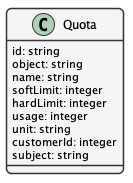
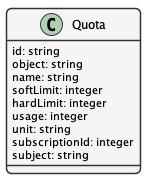
Re-add the Subscription model
A Subscription is used to link Products with Customers, essentially as 
an instance of a Product.  Quotas for a Product get associated with the 
Subscription and to the Subject of the Customer or shared group related 
to the Customer.
Fix cardinality of the overview diagram, add the Feature model, and 
update the explanatory text throughout.
Update the Quotas text to describe how quota Subjects are associated 
with create and update calls on participating Member Nodes.

Changed region(s): [[0.0301, 0.0273, 0.9624, 0.9563], [0.2406, 0.0546, 0.4211, 0.2186], [0.4511, 0.1093, 0.7218, 0.1639]]

diff --git a/membership-plan-management.rst b/membership-plan-management.rst
@@ -7,13 +7,14 @@ Membership Plan Management
 Overview
 --------
 
-To support ongoing operations, DataONE offers paid services for memberships alongside free services. This document outlines the design and implementation details needed to offer and manage these services. It describes the ``Products``, ``Customers``, ``Orders``, ``Invoices``, ``Charges``, and ``Quotas`` that DataONE needs to track. This documents:
+To support ongoing operations, DataONE offers paid services for memberships alongside free services. This document outlines the design and implementation details needed to offer and manage these services. It describes the ``Products``, ``Customers``, ``Subscriptions``, ``Quotas``, ``Orders``, ``Invoices``, and ``Charges`` and that DataONE needs to track. This documents:
 
 - What service ``Products`` are available for purchase
 - What ``Products`` a ``Customer`` purchased in an ``Order``
+- What ``Subscriptions`` are established for a ``Customer`` for a ``Product``
+- What ``Quota`` limits are set for ``Customers`` per ``Subscription``.
 - What ``Invoices`` have been sent for an ``Order``
-- Which payment ``Charge`` completed the ``Order``
-- What ``Quota`` limits are set for ``Customers`` per ``Product``.
+- Which payment ``Charges`` completed the ``Order``
 
 The following diagram shows the membership and payment records stored by DataONE and their relationships.
 
@@ -22,9 +23,11 @@ The following diagram shows the membership and payment records stored by DataONE
     !include ./plantuml-styles.txt
     class Product {
     }
+    class Feature {
+    }
     class Customer {
     }
-    class Usage {
+    class Subscription {
     }
     class Order {
     }
@@ -35,13 +38,15 @@ The following diagram shows the membership and payment records stored by DataONE
     class Quota {
     }
     
-    Customer "1" --o "n" Order : "   associated with"
-    Order "0" -right-o "n" Product : "associated with"
-    Order "0" -up-o "n" Charge : "   associated with"
-    Order "1" -left-o "n" Invoice : "   associated with"
-    Product "0" -up-o "n" Quota : "   associated with"
-    Customer "0" -right-o "n" Usage : "associated with       "
-    Product "n" -down-o "0" Usage : "associated with"
+    Customer "1" --o "n" Order : "          "
+    Order "0" -right-o "n" Product : "          "
+    Order "0" -up-o "n" Charge : "          "
+    Order "0" -left-o "n" Invoice : "          "
+    Customer "0" -right-o "n" Subscription : "          "
+    Subscription "1" -up-o "n" Product : "          "
+    Subscription "1" -right-o "n" Quota : "          "
+    Product "0" -right-o "n" Feature : "          "
+    Feature "0" -down-o "1" Quota : "          "
     @enduml
     
 .. image:: images/overview.png
@@ -80,7 +85,6 @@ Product REST endpoints:
         unitLabel: string
         url: string
         metadata: hash
-        quotas: list
     }
     @enduml
 
@@ -105,13 +109,13 @@ An example ``Product``:
         "metadata": {
             "features": [
                 {
-                    "name": "custom_portal",
+                    "name": "branded_portal",
                     "label": "Branded Portals",
                     "description": "Showcase your research, data, results, and usage metrics by building a custom web portal.",
                     "quota": {
                         "id": 5,
                         "object": "quota",
-                        "name": "custom_portal_count",
+                        "name": "branded_portal_count",
                         "softLimit": "3",
                         "hardLimit": "3",
                         "unit": "portal"
@@ -149,7 +153,7 @@ An example ``Product``:
 Customers
 ---------
 
-``Customers`` are associated with a DataONE account (by ORCID identifier), and are associated with ``Orders``, ``Invoices``, ``Charges``, and ``Quotas`` based on certain free or purchased ``Products``.
+``Customers`` are identified by a DataONE account (by ORCID identifier), and are associated with ``Orders`` that they make for free or purchased ``Products``.  When an ``Order`` is completed, the ``Customer`` is associated with a ``Subscription`` which links the ordered ``Product`` to the ``Customer`` and the associated ``Quota`` limits.
  
 Customer REST endpoints:
 
@@ -192,7 +196,7 @@ Customer REST endpoints:
 
 An example ``Customer``:
 
-.. code::
+.. code:: json
     
     {
         "id": 1,
@@ -221,21 +225,99 @@ An example ``Customer``:
         "phone": "805-893-2500"
     }
     
+Subscriptions
+-------------
+
+``Subscriptions`` represent a ``Product`` that has been ordered by a ``Customer`` and is paid for on a recurring basis.  A ``Subscription`` records the creation and cancelation dates, and can  an optional ``Discount``.  They may also be the ``Quota`` defined in the subscribed  ``Product``, along with the ``Usage`` of the limited resource. 
+
+Subscription REST endoints:
+
+.. code::
+    
+    listSubscriptions():  GET    /subscriptions
+    listSubscriptions():  GET    /subscriptions?customerId=:customerId
+    listSubscriptions():  GET    /subscriptions?subject=:subject
+    createSubscription(): POST   /subscriptions
+    getSubscription():    GET    /subscriptions/:id
+    updateSubscription(): PUT    /subscriptions/:id
+    cancelSubscription(): DELETE /subscriptions/:id
+
+..
+    @startuml images/subscription.png
+    !include ./plantuml-styles.txt
+
+    class Subscription {
+        id: string
+        object: string
+        billingCycleAnchor: timestamp
+        canceledAt: timestamp
+        collectionMethod: string
+        created: timestamp
+        currentPeriodEnd: timestamp
+        currentPeriodStart: timestamp
+        customer: integer
+        daysUntilDue: integer
+        discount: hash
+        endedAt: timestamp
+        items: list
+        latestInvoice: integer
+        metadata: hash
+        product: integer
+        quantity: integer
+        start: timestamp
+        startDate: timestamp
+        status: string
+        trialEnd: timestamp
+        trialStart: timestamp
+    }
+    @enduml
+
+.. image:: images/subscription.png
+
+An example ``Subscription``:
+
+.. code:: json
+    
+    {
+        "id": 10,
+        "object": "subscription",
+        "billingCycleAnchor": 1568066038,
+        "canceledAt": null,
+        "collectionMethod": "send_invoice",
+        "created": 1568066038,
+        "currentPeriodEnd": 1599602038,
+        "currentPeriodStart": 1568066038,
+        "customer": 20,
+        "daysUntilDue": 365,
+        "discount": null,
+        "endedAt": null,
+        "latestInvoice": 30,
+        "metadata": {},
+        "product": 2,
+        "quantity": 1,
+        "startDate": 1568066038,
+        "status": "unpaid",
+        "trialEnd": null,
+        "trialStart": null
+    }
+
 Quotas
 ------
 
-``Quotas`` are limits set for a particular ``Product``, such as the number of portals allowed, disk space allowed, etc. ``Quotas`` have a soft and hard limit per unit to help with communicating limit warnings.  ``Quotas`` that are not associated with a ``Subject`` are considered general product quotas used for informational display (part of a Product's ``Feature`` list).
+``Quotas`` are limits set for a particular ``Product``, such as the number of portals allowed, disk space allowed, etc. ``Quotas`` have a soft and hard limit per unit to help with communicating limit warnings.  ``Quotas`` that don't have an associated ``Subject`` are considered general product quotas used for informational display (part of a Product's ``Feature`` list).
 
-``Quotas`` kept for individual ``Subject`` identifiers also include a ``usage`` field that is periodically updated to reflect the ``Subject``'s current usage of the resource, harvested from the Coordinating Node indices.  
+``Quotas`` stored for individual ``Subject`` identifiers also include a ``usage`` field that is periodically updated to reflect the ``Subject``'s current usage of the resource, harvested from the Coordinating Node indices.
 
     Note: The usage harvest schedule is to be determined, but calculating usage once per hour or once per day may be appropriate.
+
+``Quotas`` are established through ``Subscriptions``, where a ``Customer`` subscribes to ``Products``. Multiple ``Quotas`` can be associated with a given ``Subscription``.
 
 Quota REST endpoints:
 
 .. code::
     
     listQuotas():  GET    /quotas
-    listQuotas():  GET    /quotas?customerId=:customerId
+    listQuotas():  GET    /quotas?subscriptionId=:subscriptionId
     listQuotas():  GET    /quotas?subject=:subject
     createQuota(): POST   /quotas
     getQuota():    GET    /quotas/:id
@@ -254,7 +336,7 @@ Quota REST endpoints:
         hardLimit: integer
         usage: integer
         unit: string
-        customerId: integer
+        subscriptionId: integer
         subject: string
     }
     @enduml
@@ -271,16 +353,22 @@ Authorization of resource usage across Member Nodes involves a call to the quota
 Managing Shared Quotas
 ~~~~~~~~~~~~~~~~~~~~~~
 
-``Quotas`` are established when a ``Customer`` enrolls for free or paid services.  ``Customers`` are associated with their ``Subject`` identifier (e.g. their ORCID identifier), and quotas are set against this identifier.  When objects are uploaded to DataONE Member Nodes, the ``SystemMetadata.rightsHolder`` field is used to check for quota limits.  In the case of an individual researcher, the client application should set the rightsHolder to the individual's ``Subject`` identifier.
+``Quotas`` are established when a ``Customer`` enrolls for free or paid services.  ``Customers`` are their ``Subject`` identifier (e.g. their ORCID identifier), and quotas are set against this identifier.  When objects are uploaded to DataONE Member Nodes, the ``SystemMetadata.submitter`` field is used to check for quota limits.
 
 In the case of shared quotas where a resource (like storage) is to be applied to a group of users,
-client applications should set the ``rightsHolder`` field for each object to the DataONE group identifier associated with the shared quota (e.g. ``CN=budden-lab,DC=dataone,DC=org``).  The "owner" of the object (i.e. the ``rightsHolder``) is then used to determine quota usage across the DataONE network.
+client applications should set the appropriate `HTTP extension header field`_ during a call to the ``MNStorage`` methods of ``create()`` and ``update``. The DataONE custom HTTP extension headers include:
 
-    Note: Using the ``SystemMetadata.rightsHolder`` field is a simple way to definitively manage quotas for both users and groups, but also has implications on authorization.  This needs discussion.
+- ``X-DataONE-Storage-Subject``: The ``Subject`` used to determine shared archive storage quotas.
+- ``X-DataONE-Portal-Subject``: The ``Subject`` used to determine shared branded portal quotas.
+- ``X-DataONE-Replication-Subject``: The ``Subject`` used to determine shared replication quotas.
+
+The value of the above extension header for each object should be set to the DataONE group identifier of the shared quota (e.g. ``CN=budden-lab,DC=dataone,DC=org``).  Typically, all calls to ``create()`` or ``update()`` should include the ``X-DataONE-Storage-Subject`` unless applying the storage to  the ``submitter`` ``Subject's`` quota is desired.  When uploading portal documents (i.e. with an ``https://purl.dataone.org/portals-1.0.0`` format identifier), the ``X-DataONE-Portal-Subject`` should also be included.
+
+.. _`HTTP extension header field`: https://tools.ietf.org/html/rfc2616#section-4.2
 
 An example 4TB ``Quota`` with a 90% soft limit:
 
-.. code::
+.. code:: json
     
     {
         "id": 1,
@@ -336,7 +424,7 @@ Order REST endpoints:
 
 An example Order:
 
-.. code::
+.. code:: json
     
     {
         "id": 1,
@@ -418,7 +506,7 @@ Charges
 
 An example Charge:
 
-.. code::
+.. code:: json
     
     {
         "id": 3,
